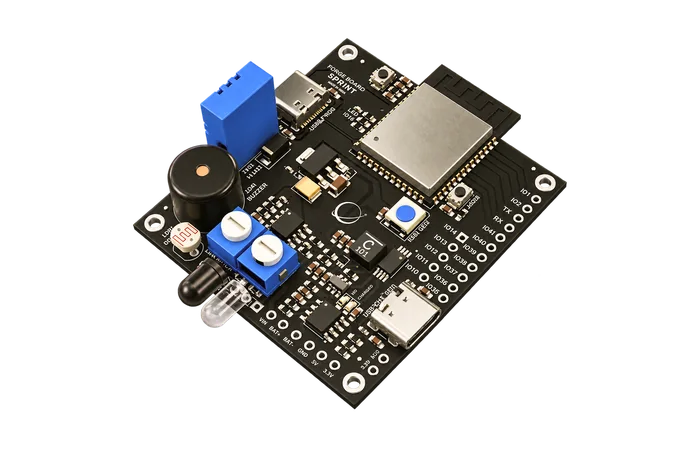
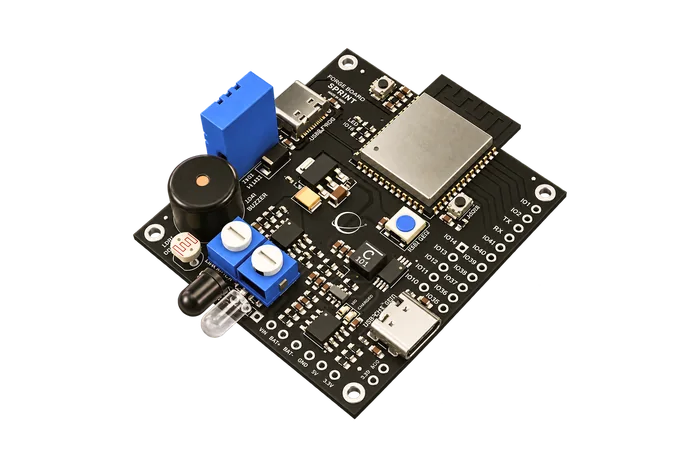
boards: give the board room, and take the size off the layout not a hint
The board is the reason anyone is on the row, so it gets the space: the
picture slot goes 220px to 300px (230 on phones) and the width cap 82% to
88%. Each board now reads about a third larger.

The size was not actually coming from where the stylesheet suggested. An
<img> with a srcset takes its intrinsic size from the `sizes` attribute —
24vw here — rather than from the file, and once the slot grew neither cap
was reached, so a resource-selection hint was deciding how big the board
looked. The picture's height is now driven off the slot and the width
follows the 3:2 frame, which is deterministic and does not move if `sizes`
is ever retuned for bandwidth.

The per-board nudges from the last change are gone. They corrected a few
pixels of bias in the old slot, which the bigger slot no longer has: the
picture now sits symmetrically in the row on its own, and the boards land
within 3px of centre with nothing baked into the artwork to keep them
there. Clearances measured 91/89, 97/101, 82/84 and 100/94.

Checked at 390px: scrollWidth equals clientWidth, nothing overflowing.

Changed region(s): [[0.18, 0.0899, 0.81, 0.8994]]

diff --git a/site/css/site.css b/site/css/site.css
@@ -697,9 +697,18 @@ table td,table th{font-variant-numeric:tabular-nums}
 .board-row h2{display:flex;flex-direction:column;gap:6px}
 .board-row .nm{font-size:clamp(40px,4.4vw,64px);font-weight:800;font-stretch:112%;letter-spacing:-.04em;line-height:.95}
 .board-row .tg{font-size:20px;color:var(--muted)}
-.board-row .art{height:220px;display:grid;place-items:center}
+/* The board is the reason anyone is on this row, so it gets the room. The
+   cap has to stay a percentage of a slot with a fixed height: an <img> with
+   srcset takes its intrinsic size from `sizes`, not from the file, so the
+   only thing holding the picture to a predictable size is this box. */
+.board-row .art{height:300px;display:grid;place-items:center}
 .board-row .art img{
-  display:block;max-width:82%;max-height:82%;width:auto;height:auto;object-fit:contain;
+  /* height, not max-height. With `auto` the picture takes its intrinsic size
+     from the `sizes` attribute — 24vw — rather than from this box, so the
+     board's size on the page was being decided by a resource-selection hint
+     and neither cap was reached. Driving the height off the slot makes it
+     deterministic, and the width follows the 3:2 frame. */
+  display:block;height:82%;width:auto;max-width:88%;object-fit:contain;
   filter:drop-shadow(0 14px 24px rgba(40,25,5,.35));transition:transform .6s var(--ease);
 }
 .board-row:hover .art img{transform:scale(1.06)}
@@ -1099,7 +1108,7 @@ fb-board.is-3d,fb-board.is-3d *{touch-action:none;-webkit-user-select:none;user-
     position:sticky;left:0;
   }
   .board-row{grid-template-columns:1fr;gap:20px;padding:32px 0}
-  .board-row .art{height:180px}
+  .board-row .art{height:230px}
   .board-row .hl{border-left:0;padding-left:0;border-top:1px solid var(--line);padding-top:16px}
 
   .pdp-hero{padding-top:120px;min-height:auto}

diff --git a/site/boards/sprint/index.html b/site/boards/sprint/index.html
@@ -18,7 +18,7 @@
 <link rel="preconnect" href="https://fonts.googleapis.com">
 <link rel="preconnect" href="https://fonts.gstatic.com" crossorigin>
 <link href="https://fonts.googleapis.com/css2?family=Archivo:ital,wdth,wght@0,62..125,100..900&family=Geist+Mono:wght@400;500&display=swap" rel="stylesheet">
-<link rel="stylesheet" href="../../css/site.css?v=e982e29e">
+<link rel="stylesheet" href="../../css/site.css?v=25b2388f">
 <script type="importmap">{"imports":{"three":"../../js/vendor/three.module.min.js"}}</script><link rel="modulepreload" href="../../js/vendor/three.module.min.js"><link rel="modulepreload" href="../../js/vendor/loaders/GLTFLoader.js"><link rel="preload" href="../../assets/models/sprint.glb?v=59dbaf28" as="fetch" crossorigin><script src="../../js/fb-board.js?v=de79dfd5" defer></script>
 <script src="../../js/motion.js?v=3eb76d3e" defer></script>
 </head>

diff --git a/site/boards/flint/index.html b/site/boards/flint/index.html
@@ -18,7 +18,7 @@
 <link rel="preconnect" href="https://fonts.googleapis.com">
 <link rel="preconnect" href="https://fonts.gstatic.com" crossorigin>
 <link href="https://fonts.googleapis.com/css2?family=Archivo:ital,wdth,wght@0,62..125,100..900&family=Geist+Mono:wght@400;500&display=swap" rel="stylesheet">
-<link rel="stylesheet" href="../../css/site.css?v=e982e29e">
+<link rel="stylesheet" href="../../css/site.css?v=25b2388f">
 <script type="importmap">{"imports":{"three":"../../js/vendor/three.module.min.js"}}</script><link rel="modulepreload" href="../../js/vendor/three.module.min.js"><link rel="modulepreload" href="../../js/vendor/loaders/GLTFLoader.js"><link rel="preload" href="../../assets/models/flint.glb?v=24b6f183" as="fetch" crossorigin><script src="../../js/fb-board.js?v=de79dfd5" defer></script>
 <script src="../../js/motion.js?v=3eb76d3e" defer></script>
 </head>

diff --git a/site/boards/indus/index.html b/site/boards/indus/index.html
@@ -18,7 +18,7 @@
 <link rel="preconnect" href="https://fonts.googleapis.com">
 <link rel="preconnect" href="https://fonts.gstatic.com" crossorigin>
 <link href="https://fonts.googleapis.com/css2?family=Archivo:ital,wdth,wght@0,62..125,100..900&family=Geist+Mono:wght@400;500&display=swap" rel="stylesheet">
-<link rel="stylesheet" href="../../css/site.css?v=e982e29e">
+<link rel="stylesheet" href="../../css/site.css?v=25b2388f">
 <script type="importmap">{"imports":{"three":"../../js/vendor/three.module.min.js"}}</script><link rel="modulepreload" href="../../js/vendor/three.module.min.js"><link rel="modulepreload" href="../../js/vendor/loaders/GLTFLoader.js"><link rel="preload" href="../../assets/models/indus.glb?v=6863ef5b" as="fetch" crossorigin><script src="../../js/fb-board.js?v=de79dfd5" defer></script>
 <script src="../../js/motion.js?v=3eb76d3e" defer></script>
 </head>

diff --git a/site/boards/spark/index.html b/site/boards/spark/index.html
@@ -18,7 +18,7 @@
 <link rel="preconnect" href="https://fonts.googleapis.com">
 <link rel="preconnect" href="https://fonts.gstatic.com" crossorigin>
 <link href="https://fonts.googleapis.com/css2?family=Archivo:ital,wdth,wght@0,62..125,100..900&family=Geist+Mono:wght@400;500&display=swap" rel="stylesheet">
-<link rel="stylesheet" href="../../css/site.css?v=e982e29e">
+<link rel="stylesheet" href="../../css/site.css?v=25b2388f">
 <script type="importmap">{"imports":{"three":"../../js/vendor/three.module.min.js"}}</script><link rel="modulepreload" href="../../js/vendor/three.module.min.js"><link rel="modulepreload" href="../../js/vendor/loaders/GLTFLoader.js"><link rel="preload" href="../../assets/models/spark.glb?v=510ef41c" as="fetch" crossorigin><script src="../../js/fb-board.js?v=de79dfd5" defer></script>
 <script src="../../js/motion.js?v=3eb76d3e" defer></script>
 </head>

diff --git a/site/index.html b/site/index.html
@@ -18,7 +18,7 @@
 <link rel="preconnect" href="https://fonts.googleapis.com">
 <link rel="preconnect" href="https://fonts.gstatic.com" crossorigin>
 <link href="https://fonts.googleapis.com/css2?family=Archivo:ital,wdth,wght@0,62..125,100..900&family=Geist+Mono:wght@400;500&display=swap" rel="stylesheet">
-<link rel="stylesheet" href="css/site.css?v=e982e29e">
+<link rel="stylesheet" href="css/site.css?v=25b2388f">
 <script type="importmap">{"imports":{"three":"./js/vendor/three.module.min.js"}}</script><link rel="modulepreload" href="js/vendor/three.module.min.js"><link rel="modulepreload" href="js/vendor/loaders/GLTFLoader.js"><script src="js/fb-orbit.js?v=57f4030c" defer></script>
 <script src="js/motion.js?v=3eb76d3e" defer></script>
 </head>

diff --git a/site/about/index.html b/site/about/index.html
@@ -18,7 +18,7 @@
 <link rel="preconnect" href="https://fonts.googleapis.com">
 <link rel="preconnect" href="https://fonts.gstatic.com" crossorigin>
 <link href="https://fonts.googleapis.com/css2?family=Archivo:ital,wdth,wght@0,62..125,100..900&family=Geist+Mono:wght@400;500&display=swap" rel="stylesheet">
-<link rel="stylesheet" href="../css/site.css?v=e982e29e">
+<link rel="stylesheet" href="../css/site.css?v=25b2388f">
 
 <script src="../js/motion.js?v=3eb76d3e" defer></script>
 </head>

diff --git a/site/boards/index.html b/site/boards/index.html
@@ -18,7 +18,7 @@
 <link rel="preconnect" href="https://fonts.googleapis.com">
 <link rel="preconnect" href="https://fonts.gstatic.com" crossorigin>
 <link href="https://fonts.googleapis.com/css2?family=Archivo:ital,wdth,wght@0,62..125,100..900&family=Geist+Mono:wght@400;500&display=swap" rel="stylesheet">
-<link rel="stylesheet" href="../css/site.css?v=e982e29e">
+<link rel="stylesheet" href="../css/site.css?v=25b2388f">
 
 <script src="../js/motion.js?v=3eb76d3e" defer></script>
 </head>

diff --git a/site/compare/index.html b/site/compare/index.html
@@ -18,7 +18,7 @@
 <link rel="preconnect" href="https://fonts.googleapis.com">
 <link rel="preconnect" href="https://fonts.gstatic.com" crossorigin>
 <link href="https://fonts.googleapis.com/css2?family=Archivo:ital,wdth,wght@0,62..125,100..900&family=Geist+Mono:wght@400;500&display=swap" rel="stylesheet">
-<link rel="stylesheet" href="../css/site.css?v=e982e29e">
+<link rel="stylesheet" href="../css/site.css?v=25b2388f">
 
 <script src="../js/motion.js?v=3eb76d3e" defer></script>
 </head>

diff --git a/site/contact/index.html b/site/contact/index.html
@@ -18,7 +18,7 @@
 <link rel="preconnect" href="https://fonts.googleapis.com">
 <link rel="preconnect" href="https://fonts.gstatic.com" crossorigin>
 <link href="https://fonts.googleapis.com/css2?family=Archivo:ital,wdth,wght@0,62..125,100..900&family=Geist+Mono:wght@400;500&display=swap" rel="stylesheet">
-<link rel="stylesheet" href="../css/site.css?v=e982e29e">
+<link rel="stylesheet" href="../css/site.css?v=25b2388f">
 
 <script src="../js/motion.js?v=3eb76d3e" defer></script>
 </head>

diff --git a/site/docs/index.html b/site/docs/index.html
@@ -18,7 +18,7 @@
 <link rel="preconnect" href="https://fonts.googleapis.com">
 <link rel="preconnect" href="https://fonts.gstatic.com" crossorigin>
 <link href="https://fonts.googleapis.com/css2?family=Archivo:ital,wdth,wght@0,62..125,100..900&family=Geist+Mono:wght@400;500&display=swap" rel="stylesheet">
-<link rel="stylesheet" href="../css/site.css?v=e982e29e">
+<link rel="stylesheet" href="../css/site.css?v=25b2388f">
 
 <script src="../js/motion.js?v=3eb76d3e" defer></script>
 </head>

diff --git a/site/software/index.html b/site/software/index.html
@@ -18,7 +18,7 @@
 <link rel="preconnect" href="https://fonts.googleapis.com">
 <link rel="preconnect" href="https://fonts.gstatic.com" crossorigin>
 <link href="https://fonts.googleapis.com/css2?family=Archivo:ital,wdth,wght@0,62..125,100..900&family=Geist+Mono:wght@400;500&display=swap" rel="stylesheet">
-<link rel="stylesheet" href="../css/site.css?v=e982e29e">
+<link rel="stylesheet" href="../css/site.css?v=25b2388f">
 
 <script src="../js/motion.js?v=3eb76d3e" defer></script>
 </head>
